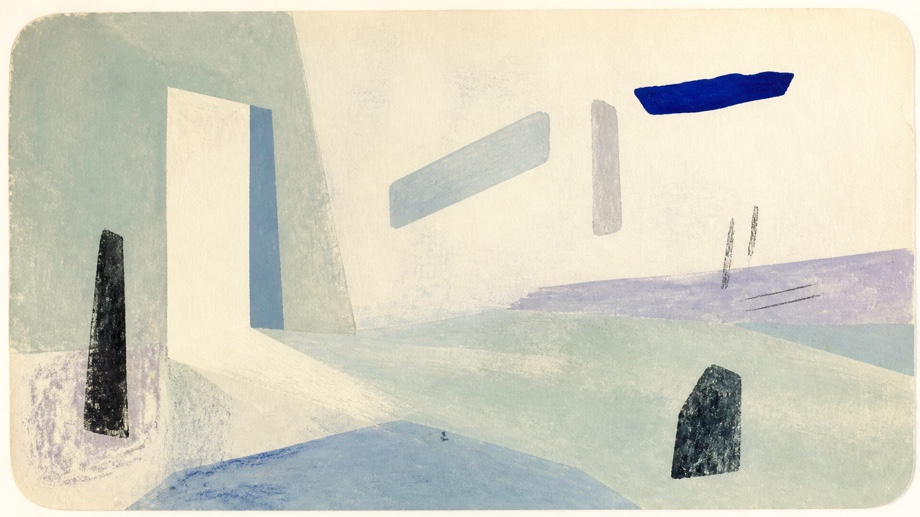
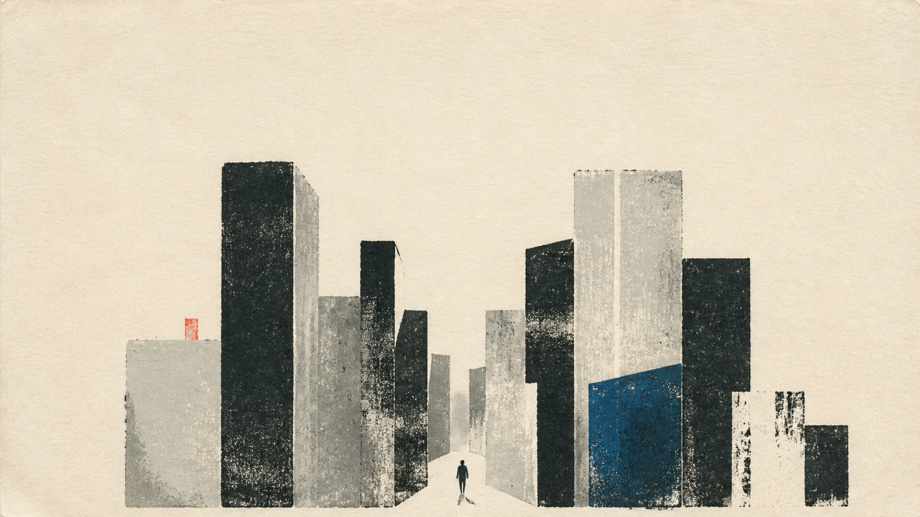
feat(home): adopt modernist print feature artwork

diff --git a/Sources/Kumone/Features/SidebarView.swift b/Sources/Kumone/Features/SidebarView.swift
@@ -13,7 +13,7 @@ struct SidebarView: View {
         List {
             Section {
                 row(.home, title: "推荐", icon: "house.fill")
-                row(.aiRecommendations, title: "AI 猜你喜欢", icon: "sparkles")
+                row(.aiRecommendations, title: "Kumo 猜你喜欢", icon: "sparkles")
                 row(.explore, title: "精选", icon: "square.grid.2x2.fill")
                 row(.fm, title: "漫游", icon: "wave.3.right.circle.fill")
             }

diff --git a/Sources/Kumone/Features/Home/HomeView.swift b/Sources/Kumone/Features/Home/HomeView.swift
@@ -378,7 +378,7 @@ struct HomeView: View {
 
                     NavigationLink(value: Destination.aiRecommendations) {
                         FeatureCard(
-                            title: "AI 猜你喜欢",
+                            title: "Kumo 猜你喜欢",
                             subtitle: "从红心之外发现新歌",
                             icon: "sparkles",
                             artworkName: "ai-discovery",

diff --git a/Sources/Kumone/Features/Pages/AIRecommendationsView.swift b/Sources/Kumone/Features/Pages/AIRecommendationsView.swift
@@ -49,7 +49,7 @@ struct AIRecommendationsView: View {
             .frame(maxWidth: 920, alignment: .leading)
             .frame(maxWidth: .infinity, alignment: .center)
         }
-        .navigationTitle("AI 猜你喜欢")
+        .navigationTitle("Kumo 猜你喜欢")
         .onAppear {
             hasAPIKey = DeepSeekCredentialStore.isConfigured
         }

diff --git a/docs/ai-recommendations.md b/docs/ai-recommendations.md
@@ -1,4 +1,4 @@
-# AI 猜你喜欢
+# Kumo 猜你喜欢
 
 ## 目标
 
@@ -6,7 +6,7 @@
 
 ## 首版范围
 
-- macOS / iPadOS 侧边栏新增“AI 猜你喜欢”，首页增加功能卡片；iPhone 通过首页卡片进入。
+- macOS / iPadOS 侧边栏新增“Kumo 猜你喜欢”，首页增加功能卡片；iPhone 通过首页卡片进入。
 - 用户自行配置 DeepSeek API Key，Key 仅保存到系统钥匙串，不进入源码或 `UserDefaults`。
 - 每次随机抽取最多 40 首红心歌曲作为口味样本，不发送账号、Cookie、歌曲 ID 等身份信息。
 - 调用 DeepSeek Chat Completions JSON Output，生成口味总结、候选歌名、歌手和推荐理由。
